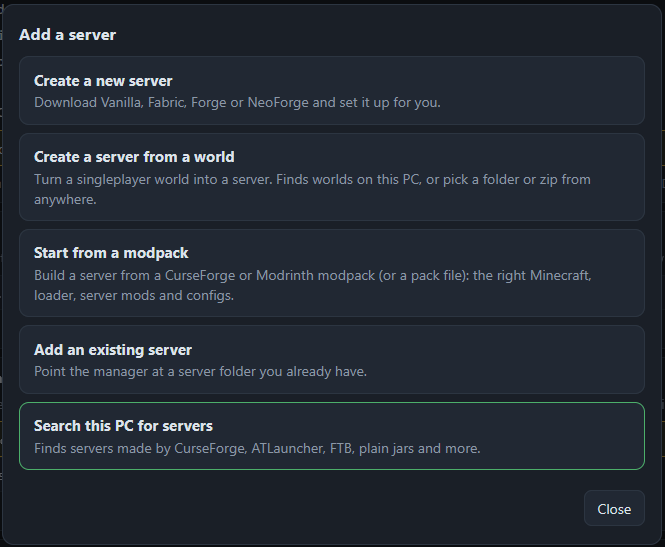
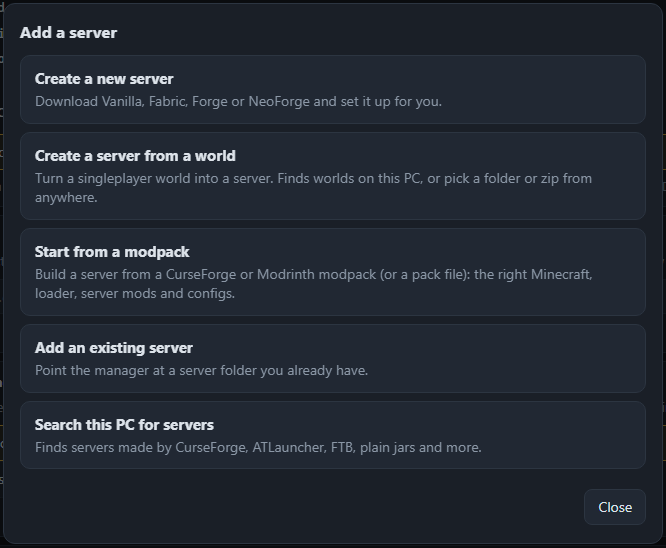
README: fresh screenshots, unsigned-installer note, rights-reserved artwork notice
Retook the four app screenshots from a clean demo install (generic server names, documentation IP addresses, no personal servers or addresses). Explain that the installer is unsigned, that SmartScreen or Smart App Control may block it, and to use the zip instead. State that the name, plaque logo and the Steeze Cake profile picture and mascot are all rights reserved and not covered by the PolyForm licence.

diff --git a/README.md b/README.md
@@ -36,7 +36,9 @@ MC.SESH is a small program with no dependencies to install. It brings its own Ja
 
 **Option 1: the zip (recommended).** Download `MC.SESH-<version>-win64.zip` from the [Releases](../../releases) page, unzip **the whole folder**, then double-click `Install.bat`. A setup wizard opens in your browser: pick folders, create the owner account, choose your defaults and whether MC.SESH starts with Windows. When it finishes, MC.SESH opens in the same tab. No browser? `Install-Text.bat` does the same in a plain text window. You can also just run `Start.bat` to use it without installing.
 
-**Option 2: the installer.** `MC.SESH-Setup-<version>.exe` is a classic setup wizard. It is **not code-signed yet**, so Windows SmartScreen may warn about it, and Windows with *Smart App Control* turned on can block it. If that happens, use the zip.
+**Option 2: the installer.** `MC.SESH-Setup-<version>.exe` is a classic setup wizard.
+
+> **Windows may warn about or block the installer.** MC.SESH is not code-signed yet (a signing certificate costs money, and this is a free hobby project). Because of that, Windows SmartScreen may show a "Windows protected your PC" warning, and Windows with **Smart App Control** turned on can block the `.exe` outright. **If that happens, use the zip (Option 1) instead.** It installs the same program the same way, and you do not have to turn any Windows protection off.
 
 You do **not** need to install Java. To let other devices open MC.SESH, allow it through Windows Firewall when the setup offers to.
 
@@ -64,7 +66,7 @@ The manager is a single Java program with no external libraries. Source is in `s
 
 MC.SESH is **source-available** under the [PolyForm Noncommercial License 1.0.0](LICENSE). In short: you may read it, run it and change it for personal, hobby, educational and charitable use at no cost. Selling it, or using it for a commercial purpose (for example, running paid servers with it), needs a separate licence from the author. To ask about one, open an issue titled **Commercial licence**.
 
-The MC.SESH name, logo and artwork are **not** covered by that licence. See [CREDITS.md](CREDITS.md).
+**The MC.SESH name, the plaque logo, the Steeze Cake profile picture and mascot, and all other artwork are NOT covered by that licence.** They are © 2026 Steeze Cake, all rights reserved, and may not be copied, reused or used to promote anything else without written permission. See [CREDITS.md](CREDITS.md). If you fork MC.SESH, replace them with your own.
 
 ## Not affiliated with Mojang or Microsoft
 

diff --git a/CREDITS.md b/CREDITS.md
@@ -7,9 +7,11 @@ The source code is licensed under the PolyForm Noncommercial License 1.0.0 (see 
 Personal, hobby, educational and charitable use is free. For commercial use, contact the author (open an issue titled "Commercial licence").
 
 ## Name, logo and artwork (all rights reserved)
-The following are NOT covered by the licence above. All rights reserved. Do not reuse them, or use the MC.SESH name or logo for anything of your own, without permission.
+Copyright (c) 2026 Steeze Cake. All rights reserved.
+
+The following are NOT covered by the licence above, and no licence to them is granted. Do not copy or reuse them, or use the MC.SESH name, the logo or the Steeze Cake profile picture for anything of your own, without written permission.
 - The MC.SESH name and the plaque logo
-- The Steeze Cake mascot and name
+- The Steeze Cake profile picture, mascot and name (`brand/steeze-cake-1024.jpg` and every copy of it)
 - Everything in `brand/` (logos, mascot, icons, installer images)
 - The copies of that artwork inside the web interface and the setup wizard: `web/logo.png`, `web/banner.png`, `web/favicon-32.png`, `web/apple-touch-icon.png`, `web/icon-192.png`, `web/icon-512.png`, `web/icon.svg` and `web/setup/steeze.jpg`
 
